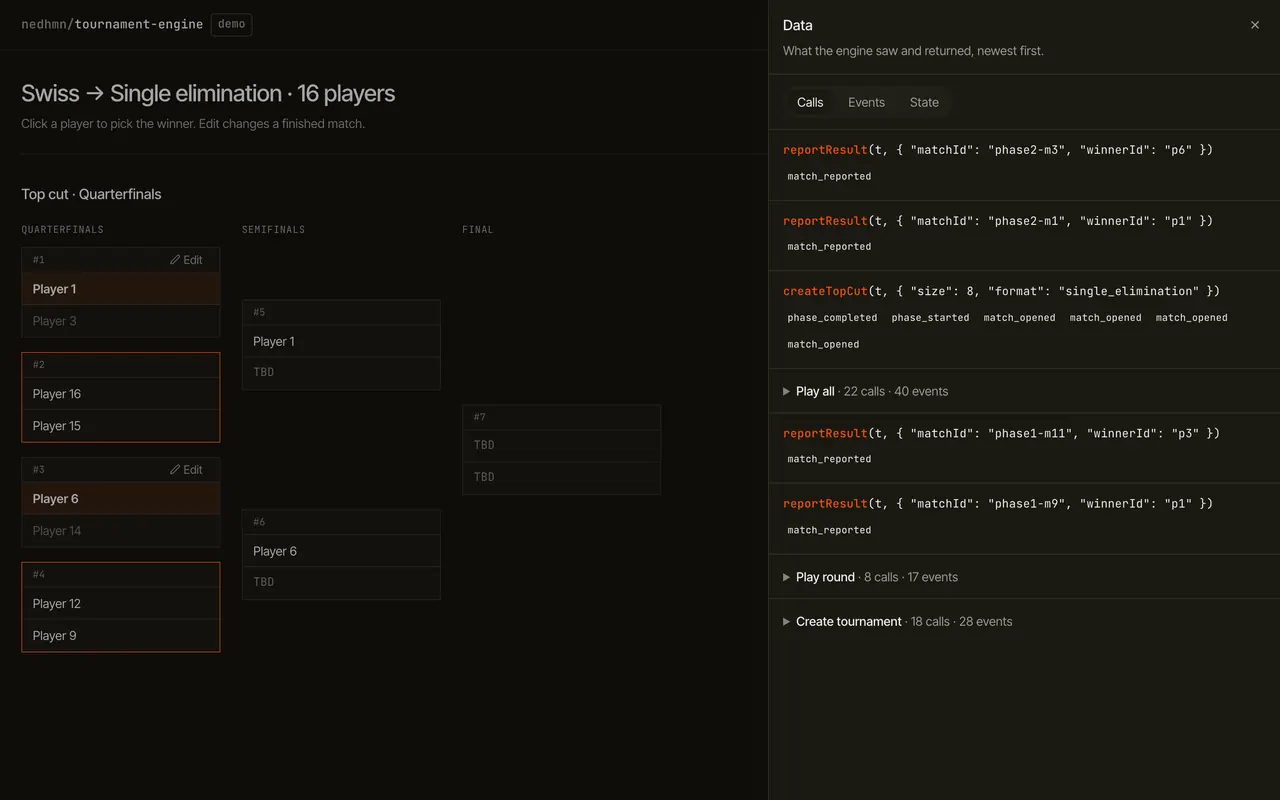
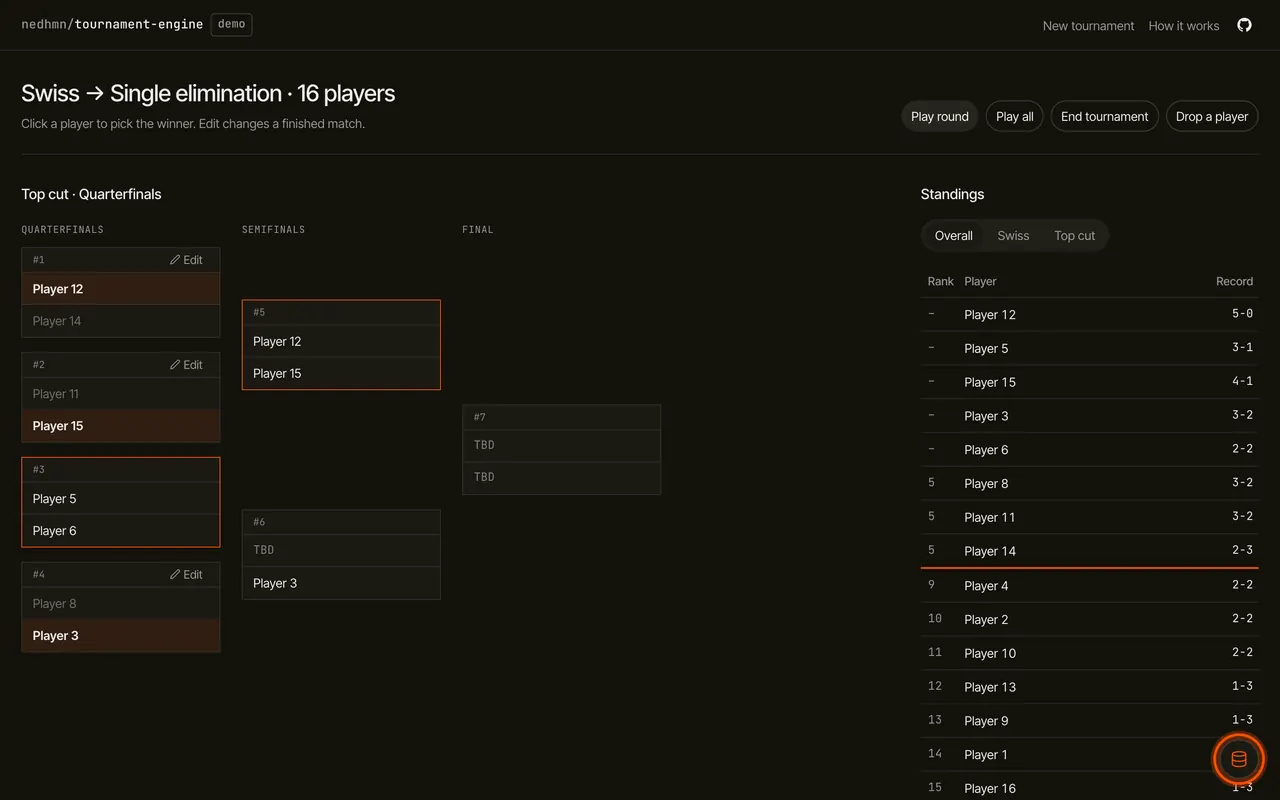
fix(demo): walkthrough screenshots highlight each step's trigger

diff --git a/apps/demo/src/components/onboarding.tsx b/apps/demo/src/components/onboarding.tsx
@@ -8,7 +8,9 @@ import {
   DialogTitle,
 } from "@repo/design-system/components/dialog";
 import { cn } from "@repo/design-system/lib/utils";
-import { useEffect, useState } from "react";
+import { type ReactNode, useEffect, useState } from "react";
+
+import { DatabaseIcon } from "./database-icon.tsx";
 
 export const REPO_URL = "https://github.com/nedhmn/bracket-engine";
 
@@ -18,45 +20,51 @@ const COPIED_MS = 1500;
 type Step = {
   alt: string;
   image: string;
-  text: string;
+  text: ReactNode;
   title: string;
 };
 
 const STEPS: Step[] = [
   {
-    alt: "The Configure screen with format presets and a player count.",
+    alt: "The New tournament form with format rows, a player count and the Start tournament button highlighted.",
     image: "configure",
-    text: "Choose a format and a player count, then start the tournament.",
+    text: "Choose a format and a player count, then press Start tournament.",
     title: "Pick a format",
   },
   {
-    alt: "Swiss round 1 with match cards and the Play round and Play all buttons.",
+    alt: "A Swiss round with a clickable player and the Play round and Play all buttons highlighted.",
     image: "swiss",
     text: "Click a player to pick the winner, or use Play round or Play all.",
     title: "Play the Swiss rounds",
   },
   {
-    alt: "The Edit dialog for a finished match, with both players and a Clear result button.",
+    alt: "A finished match with its Edit button highlighted, next to the Edit dialog with a Clear result button.",
     image: "edit",
-    text: "Change the winner of a finished match, or clear it to reopen the match.",
+    text: "Press Edit on a finished match to change the winner or clear the result.",
     title: "Edit or clear a result",
   },
   {
-    alt: "A top 8 single elimination bracket in progress.",
+    alt: "Finished Swiss rounds with the Create top 8 button highlighted and the cut line in the standings.",
     image: "bracket",
-    text: "The top Swiss players move into a bracket seeded by their Swiss rank.",
-    title: "Play the top cut",
+    text: "After the last Swiss round, Create top 8 starts a bracket seeded by Swiss rank.",
+    title: "Create the top cut",
   },
   {
-    alt: "The standings table with the Overall, Swiss and Top cut toggle.",
+    alt: "The standings table with the Overall, Swiss and Top cut toggle highlighted.",
     image: "standings",
     text: "Switch between Overall, Swiss and Top cut to see each ranking.",
     title: "Read the standings",
   },
   {
-    alt: "The Data panel listing engine calls, their events and the tournament state.",
+    alt: "The page with the round Data button highlighted at the bottom right.",
     image: "data",
-    text: "Data lists every engine call, the events it returned, and the full state.",
+    text: (
+      <>
+        Open Data with{" "}
+        <DatabaseIcon className="inline size-4 -translate-y-px align-middle text-accent" /> at the
+        bottom right to see every engine call, the events it returned, and the full state.
+      </>
+    ),
     title: "Inspect the data",
   },
 ];

diff --git a/apps/demo/src/components/app.tsx b/apps/demo/src/components/app.tsx
@@ -12,6 +12,7 @@ import { isOnboarded, markOnboarded } from "../onboarded.ts";
 import { useSession } from "../session.tsx";
 import { Configure } from "./configure.tsx";
 import { DataSheet } from "./data-sheet.tsx";
+import { DatabaseIcon } from "./database-icon.tsx";
 import { Onboarding, REPO_URL } from "./onboarding.tsx";
 import { Watch } from "./watch.tsx";
 
@@ -69,25 +70,6 @@ function Header({ onHelp }: { onHelp: () => void }) {
         </nav>
       </div>
     </header>
-  );
-}
-
-function DatabaseIcon() {
-  return (
-    <svg
-      aria-hidden="true"
-      viewBox="0 0 24 24"
-      className="size-5"
-      fill="none"
-      stroke="currentColor"
-      strokeWidth="1.75"
-      strokeLinecap="round"
-      strokeLinejoin="round"
-    >
-      <ellipse cx="12" cy="5" rx="9" ry="3" />
-      <path d="M3 5v14a9 3 0 0 0 18 0V5" />
-      <path d="M3 12a9 3 0 0 0 18 0" />
-    </svg>
   );
 }
 

diff --git a/apps/demo/src/components/database-icon.tsx b/apps/demo/src/components/database-icon.tsx
@@ -1,0 +1,20 @@
+import { cn } from "@repo/design-system/lib/utils";
+
+export function DatabaseIcon({ className }: { className?: string }) {
+  return (
+    <svg
+      aria-hidden="true"
+      viewBox="0 0 24 24"
+      className={cn("size-5", className)}
+      fill="none"
+      stroke="currentColor"
+      strokeWidth="1.75"
+      strokeLinecap="round"
+      strokeLinejoin="round"
+    >
+      <ellipse cx="12" cy="5" rx="9" ry="3" />
+      <path d="M3 5v14a9 3 0 0 0 18 0V5" />
+      <path d="M3 12a9 3 0 0 0 18 0" />
+    </svg>
+  );
+}
